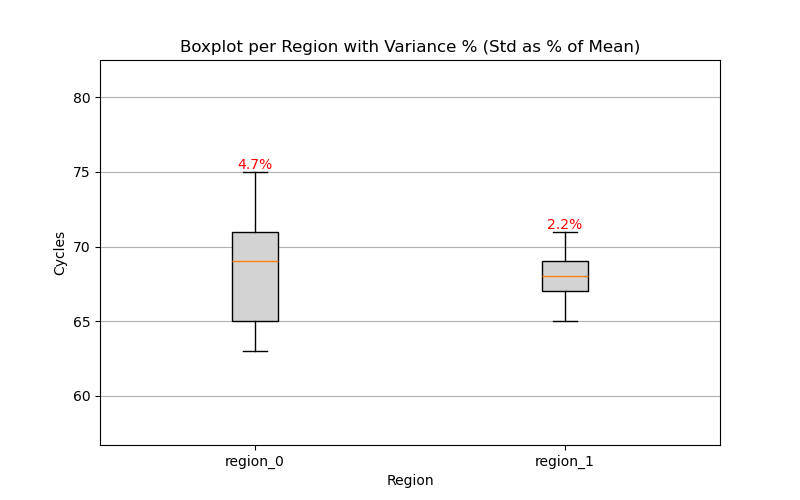
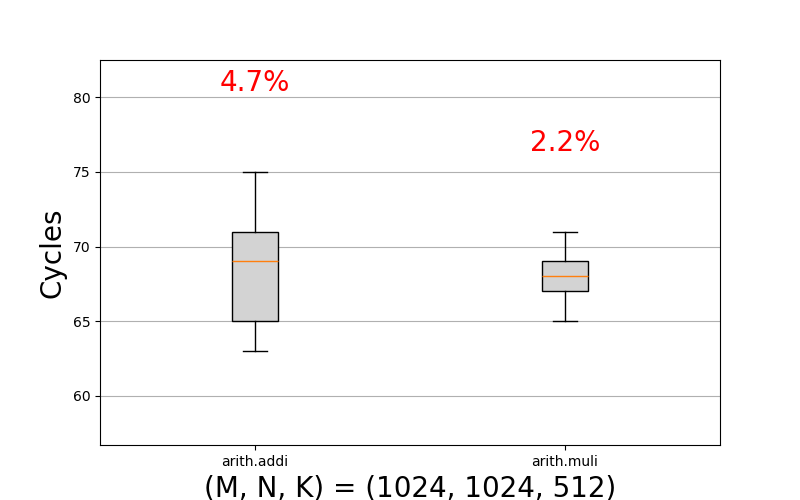
graph changes

diff --git a/profiling_experiments/profile_variance_analysis.py b/profiling_experiments/profile_variance_analysis.py
@@ -35,13 +35,20 @@ for i, filename in enumerate(os.listdir(traces_dir)):
                     data[event["name"]] = [[event["dur"]]]
 
 region_names = list(data.keys())
-region_names.sort()
 data_values = [np.sum(data[region], axis=1) for region in region_names]
 
 fig, ax = plt.subplots(figsize=(8, 5))
 
 # Create a boxplot for each region (whiskers go to min and max)
-bp = ax.boxplot(data_values, tick_labels=region_names, whis=[0, 100], patch_artist=True)
+bp = ax.boxplot(
+    data_values,
+    tick_labels=[
+        "arith.addi",
+        "arith.muli",
+    ],
+    whis=[0, 100],
+    patch_artist=True,
+)
 
 for box in bp["boxes"]:
     box.set(facecolor="lightgray")
@@ -67,7 +74,7 @@ for i, region in enumerate(region_names):
 
     # Position the text slightly above the region's maximum value
     max_val = np.max(values)
-    offset = 0  # small vertical offset
+    offset = 5  # small vertical offset
     var_text_y = max_val + offset
 
     ax.text(
@@ -76,13 +83,12 @@ for i, region in enumerate(region_names):
         f"{var_percent:.1f}%",
         ha="center",
         va="bottom",
-        fontsize=10,
+        fontsize=20,
         color="red",
     )
 
-ax.set_xlabel("Region")
-ax.set_ylabel("Cycles")
-ax.set_title("Boxplot per Region with Variance % (Std as % of Mean)")
+ax.set_xlabel("(M, N, K) = (1024, 1024, 512)", fontsize=20)
+ax.set_ylabel("Cycles", fontsize=20)
 ax.grid(True, axis="y")
 
 plt.savefig(f"{script_dir}/{args.op}/clock_cycles_box_plot.png")
